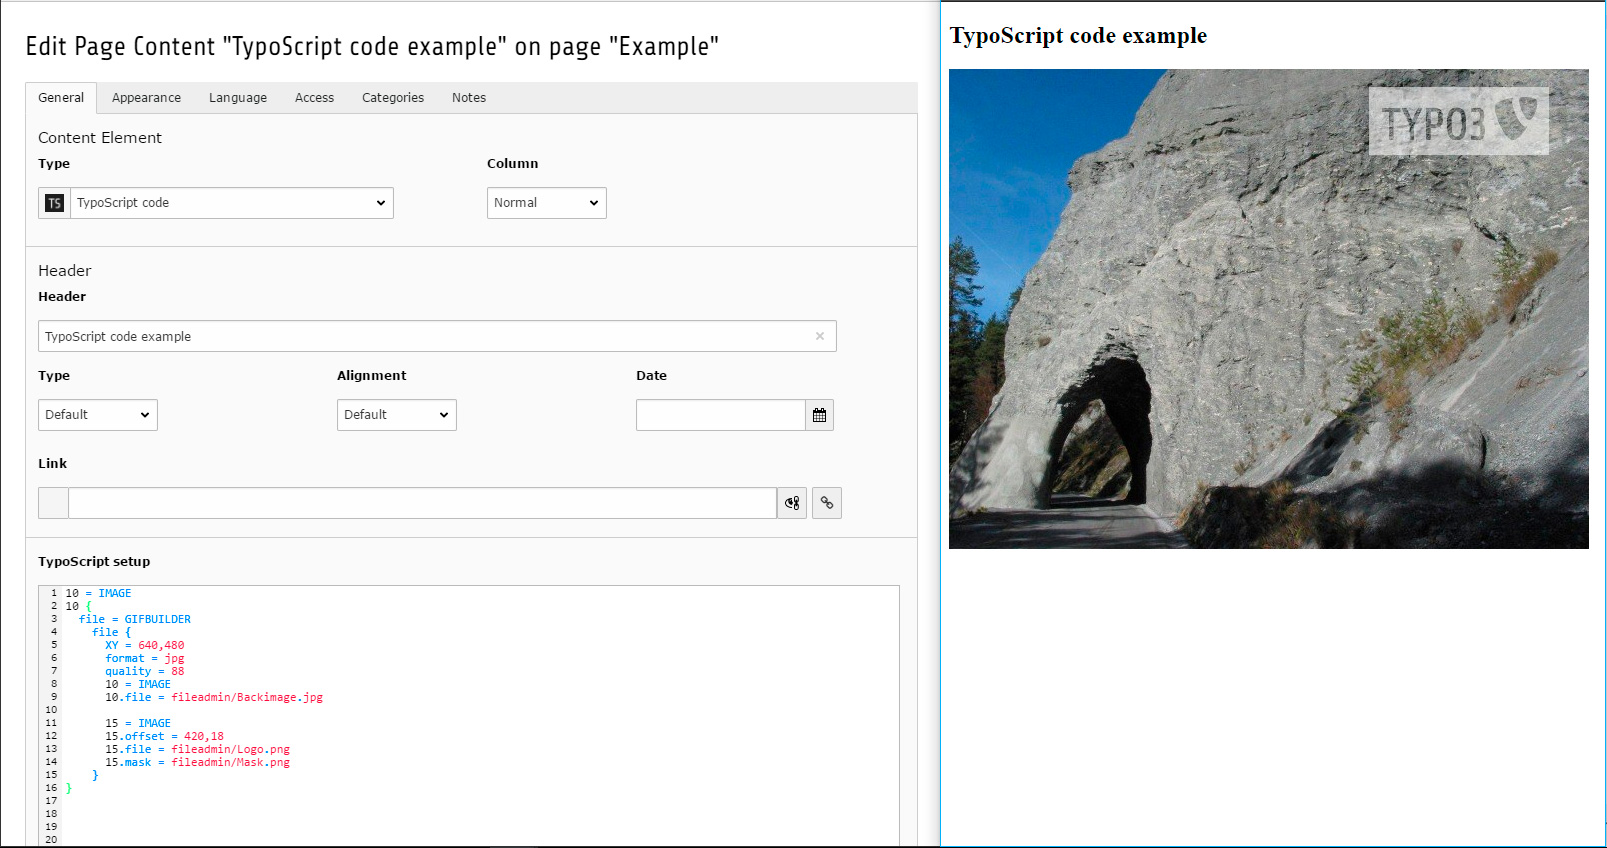
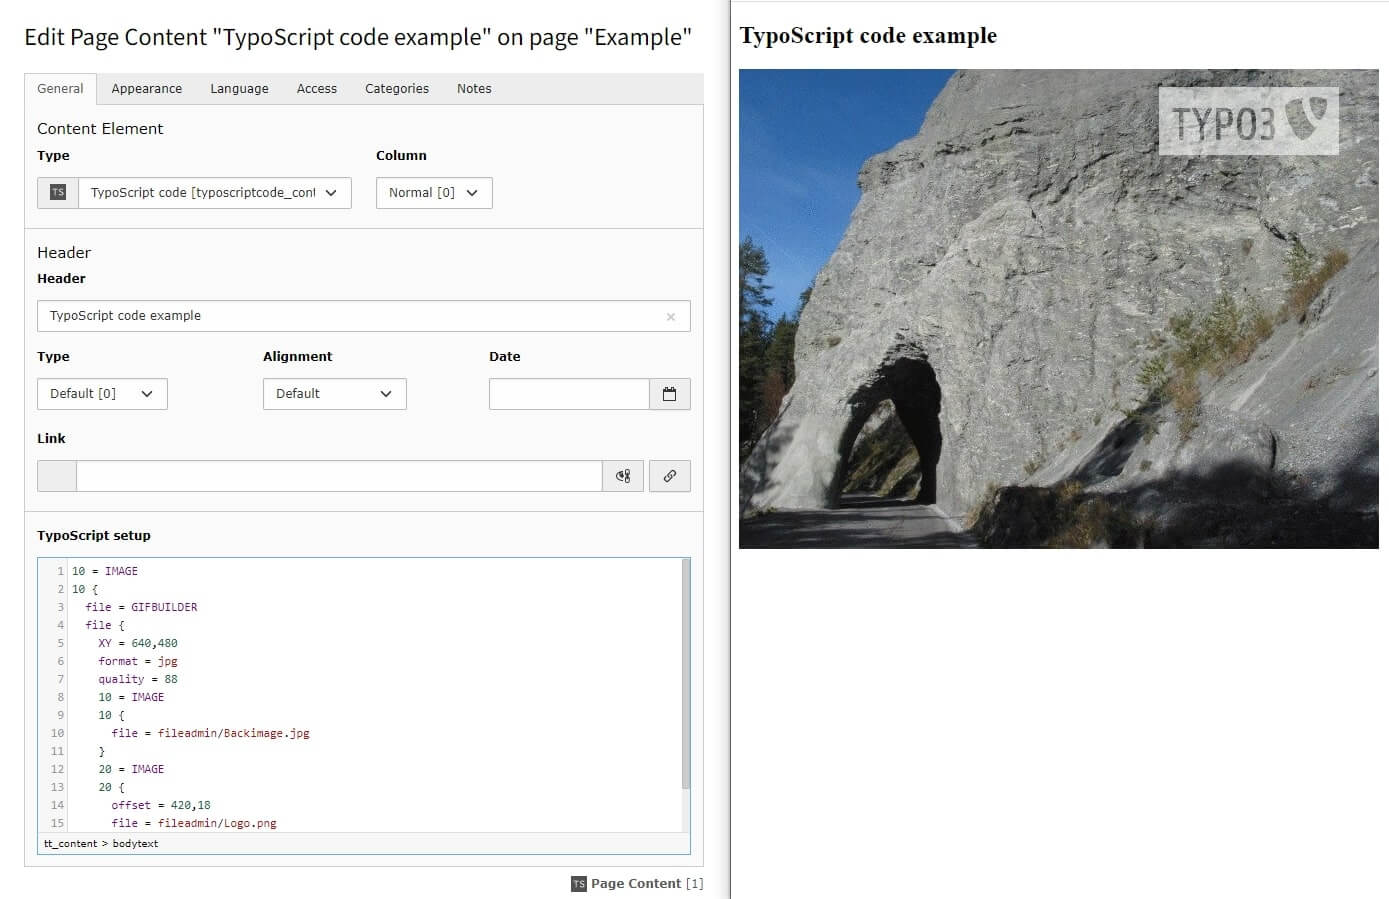
[TASK] Release 6.3.0 version (compatibility with TYPO3 11)
https://docs.typo3.org/c/typo3/cms-core/main/en-us/Changelog/11.0/Deprecation-92947-DeprecateTYPO3_MODEAndTYPO3_REQUESTTYPEConstants.html
https://docs.typo3.org/c/typo3/cms-core/main/en-us/Changelog/11.0/Deprecation-92784-ExtbaseControllerActionsMustReturnResponseInterface.html
https://docs.typo3.org/c/typo3/cms-core/main/en-us/Changelog/11.4/Feature-94692-RegisteringIconsViaServiceContainer.html

Changed region(s): [[0.0, 0.0, 1.0, 1.0], [0.1857, 0.3679, 0.2786, 0.5212], [0.2786, 0.1533, 0.3405, 0.2453]]

diff --git a/Classes/Controller/ContentController.php b/Classes/Controller/ContentController.php
@@ -15,10 +15,12 @@ namespace Itribe\TyposcriptCode\Controller;
  * The TYPO3 project - inspiring people to share!
  */
 
+use Psr\Http\Message\ResponseInterface;
 use TYPO3\CMS\Core\Utility\GeneralUtility;
 use TYPO3\CMS\Extbase\Mvc\Controller\ActionController;
 use TYPO3\CMS\Core\TypoScript\Parser\TypoScriptParser;
 use TYPO3\CMS\Frontend\Configuration\TypoScript\ConditionMatching\ConditionMatcher;
+use TYPO3\CMS\Frontend\Controller\TypoScriptFrontendController;
 
 /**
  * TyposcriptCode Content Controller
@@ -49,9 +51,9 @@ class ContentController extends ActionController
     /**
      * Render content
      *
-     * @return string
+     * @return ResponseInterface
      */
-    public function indexAction()
+    public function indexAction(): ResponseInterface
     {
         // @extensionScannerIgnoreLine
         $contentObject = $this->configurationManager->getContentObject();
@@ -61,10 +63,12 @@ class ContentController extends ActionController
         $this->parser = GeneralUtility::makeInstance(TypoScriptParser::class);
         $this->matchCondition = GeneralUtility::makeInstance(ConditionMatcher::class);
 
-        $setup = $this->scriptParser($configuration, self::RECURSIVE_LEVEL);
-        $this->tryChangeExtType();
+        $setup = $this->scriptParser($configuration);
+        if (isset($this->parser->sections) && is_array($this->parser->sections) && count($this->parser->sections)) {
+            $contentObject->convertToUserIntObject();
+        }
 
-        return $contentObject->cObjGet($setup, 'typoscript_code_proc.');
+        return $this->htmlResponse($contentObject->cObjGet($setup, 'typoscript_code_proc.'));
     }
 
     /**
@@ -74,22 +78,10 @@ class ContentController extends ActionController
      * @return string Replacement
      * @see \TYPO3\CMS\Core\TypoScript\ExtendedTemplateService::substituteConstants()
      */
-    protected function substituteConstantsCallBack($matches)
+    protected function substituteConstantsCallBack($matches): string
     {
         $s = $this->parser->getVal($matches[1], $this->parser->setup);
-        return isset($s[0]) ? $s[0] : $matches[0];
-    }
-
-    /**
-     * Change ext type to USER_INT if necessary
-     * @return void
-     */
-    protected function tryChangeExtType()
-    {
-        if (isset($this->parser->sections) && is_array($this->parser->sections) && count($this->parser->sections)) {
-            // @extensionScannerIgnoreLine
-            $this->configurationManager->getContentObject()->convertToUserIntObject();
-        }
+        return $s[0] ?? $matches[0];
     }
 
     /**
@@ -99,7 +91,7 @@ class ContentController extends ActionController
      * @param int $recursiveLevel
      * @return array TypoScript configuration array
      */
-    protected function scriptParser($script, $recursiveLevel)
+    protected function scriptParser(string $script, int $recursiveLevel = self::RECURSIVE_LEVEL): array
     {
         $script = $this->parser->checkIncludeLines($script);
 
@@ -118,7 +110,7 @@ class ContentController extends ActionController
         }
 
         foreach ($this->getTypoScriptFrontendController()->tmpl->setup as $tsObjectKey => $tsObjectValue) {
-            if ($tsObjectKey !== intval($tsObjectKey, 10)) {
+            if ($tsObjectKey !== (integer)$tsObjectKey) {
                 $this->parser->setup[$tsObjectKey] = $tsObjectValue;
             }
         }
@@ -128,9 +120,9 @@ class ContentController extends ActionController
     }
 
     /**
-     * @return \TYPO3\CMS\Frontend\Controller\TypoScriptFrontendController
+     * @return TypoScriptFrontendController
      */
-    protected function getTypoScriptFrontendController()
+    protected function getTypoScriptFrontendController(): TypoScriptFrontendController
     {
         return $GLOBALS['TSFE'];
     }

diff --git a/ext_localconf.php b/ext_localconf.php
@@ -1,18 +1,26 @@
 <?php
-defined('TYPO3_MODE') or die();
+defined('TYPO3') or die();
 
-// @extensionScannerIgnoreLine
-\TYPO3\CMS\Extbase\Utility\ExtensionUtility::configurePlugin(
-    'TyposcriptCode',
-    'Content',
-    [
-        \Itribe\TyposcriptCode\Controller\ContentController::class => 'index',
-    ],
-    [],
-    \TYPO3\CMS\Extbase\Utility\ExtensionUtility::PLUGIN_TYPE_CONTENT_ELEMENT
-);
+use \Itribe\TyposcriptCode\Controller\ContentController;
+use \TYPO3\CMS\Core\Utility\ExtensionManagementUtility;
+use \TYPO3\CMS\Extbase\Utility\ExtensionUtility;
 
-// Apply PageTSconfig
-\TYPO3\CMS\Core\Utility\ExtensionManagementUtility::addPageTSConfig(
-    '<INCLUDE_TYPOSCRIPT: source="FILE:EXT:typoscript_code/Configuration/PageTS/modWizards.tsconfig">'
-);
+(static function () {
+
+    ExtensionUtility::configurePlugin(
+        'TyposcriptCode',
+        'Content',
+        [
+            ContentController::class => 'index',
+        ],
+        [],
+        ExtensionUtility::PLUGIN_TYPE_CONTENT_ELEMENT
+    );
+
+    // Apply PageTSconfig
+    ExtensionManagementUtility::addPageTSConfig(
+        '<INCLUDE_TYPOSCRIPT: source="FILE:EXT:typoscript_code/Configuration/PageTS/modWizards.tsconfig">'
+    );
+})();
+
+

diff --git a/ext_emconf.php b/ext_emconf.php
@@ -10,16 +10,18 @@ $EM_CONF[$_EXTKEY] = [
     'title' => 'TypoScript code',
     'description' => 'This extension allows you to insert any TypoScript code to a page as a normal content element.',
     'category' => 'plugin',
-    'version' => '6.2.0',
+    'version' => '6.3.0',
     'state' => 'stable',
     'author' => 'Alexey Gafiulov, Anton Danilov',
     'author_email' => 'alexey.gafiulov@i-tribe.de, anton.danilov@i-tribe.de',
     'author_company' => 'interactive tribe GmbH',
     'constraints' => [
         'depends' => [
-            'typo3' => '10.3.0-10.9.99',
+            'typo3' => '11.5.0-11.5.99',
         ],
         'conflicts' => [],
-        'suggests' => ['t3editor' => '']
+        'suggests' => [
+            't3editor' => '',
+        ]
     ],
 ];

diff --git a/Configuration/Icons.php b/Configuration/Icons.php
@@ -1,0 +1,10 @@
+<?php
+
+use TYPO3\CMS\Core\Imaging\IconProvider\SvgIconProvider;
+
+return [
+    'extensions-typoscript_code-content' => [
+        'provider' => SvgIconProvider::class,
+        'source' => 'EXT:typoscript_code/Resources/Public/Icons/Extension.svg',
+    ],
+];

diff --git a/Configuration/TCA/Overrides/tt_content.php b/Configuration/TCA/Overrides/tt_content.php
@@ -1,5 +1,4 @@
 <?php
-defined('TYPO3_MODE') or die();
 
 call_user_func(function () {
     $GLOBALS['TCA']['tt_content']['types']['typoscriptcode_content']['showitem'] = '

diff --git a/README.md b/README.md
@@ -1,0 +1,37 @@
+[![Latest Stable Version](http://poser.pugx.org/itribe/typoscript-code/v)](https://packagist.org/packages/itribe/typoscript-code)
+[![Total Downloads](http://poser.pugx.org/itribe/typoscript-code/downloads)](https://packagist.org/packages/itribe/typoscript-code)
+[![License](http://poser.pugx.org/itribe/typoscript-code/license)](https://packagist.org/packages/itribe/typoscript-code)
+
+# TypoScript code
+
+TYPO3 extension for inserting any TypoScript code to a page as a normal content element.
+
+## Installation
+
+There are following ways for extension installation.
+
+### 1. Get extension using [PHP Composer](https://getcomposer.org)
+
+`composer require itribe/typoscript-code`
+
+### 2. Get extension from the Extension Manager
+
+Press the "Retrieve/Update" button and search for the extension key "typoscript_code" and import the extension from the repository. Also you can get current version from [TYPO3 Extension Repository](https://typo3.org/extensions/repository/view/typoscript_code>) by downloading either the t3x or zip version. Upload the file afterwards in the Extension Manager.
+
+## Version status
+
+| Version           | TYPO3                                                        |
+|-------------------|--------------------------------------------------------------|
+| Version **5.x**   | Compatible with TYPO3 6.2.x - 7.6.x                          |
+| Version **6.0.x** | Compatible with TYPO3 8.7.x                                  |
+| Version **6.1.x** | Compatible with TYPO3 8.7.x - 9.5.x                          |
+| Version **6.2.x** | Compatible with [TYPO3 10](https://get.typo3.org/version/10) |
+| Version **6.3.x** | Compatible with [TYPO3 11](https://get.typo3.org/version/11) |
+
+## Users manual
+
+Just add this plugin to a page at a place you like and enter some TypoScript code to a text field. Code is considering to be a COA definition, it will be rendered by TYPO3 and inserted to a page.
+
+Code could access definitions from website TypoScript templates, as well as constants.
+
+![Example](/Resources/Public/example.jpg)
